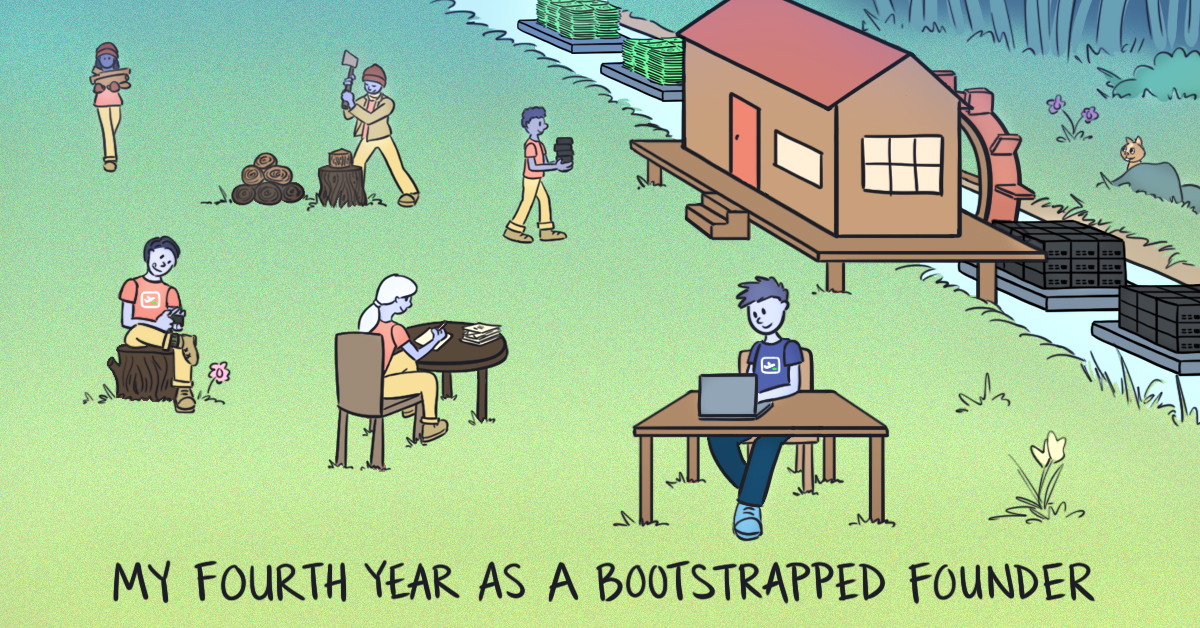
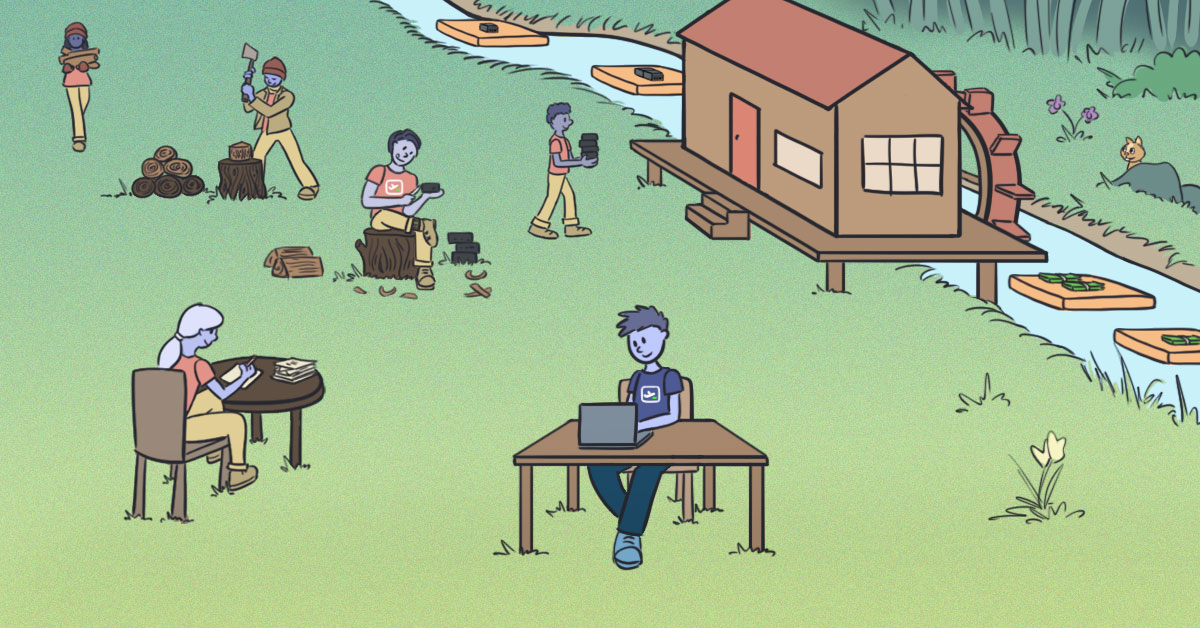
Update cover images

diff --git a/content/posts/solo-developer-year-4/index.md b/content/posts/solo-developer-year-4/index.md
@@ -9,6 +9,8 @@ tags:
 description: "TODO: Write blurb"
 date: '2022-02-01'
 hero_image: cover.jpg
+images:
+- solo-developer-year-4/og-cover.jpg
 ---
 Four years ago, I [quit my job as a developer at Google](/why-i-quit-google/) to create my own self-funded software business.
 
@@ -347,7 +349,7 @@ As TinyPilot grows, the highs are high but the lows are lower.
 
 I'll start with the positives. I enjoy feeling like I run a real business. Before TinyPilot, my businesses typically earned less than $500 per month. At that scale, you're extremely limited. You can't hire for any skilled roles or pay for expert guidance. You end up grinding away at problems you know are already solved, but you have to reinvent the wheel because you can't afford the already-invented ones.
 
-With TinyPilot, I can pay for tooling or hire specialists where it makes sense. TinyPilot uses elegant cases for the Voyager, and it's because I hired an awesome 3D printing designer. If I didn't have money for that, I definitely wouldn't have spent hundreds of hours learning to make CAD designs and operating a 3D printer.
+With TinyPilot, there's enough money coming in to hire specialists where it makes sense. I enjoy being able to work with a talented dev team again after three years of coding by myself. I pay $200/month for dev tooling and CI without thinking twice about it because it's obviously a net cost savings to help my dev team eliminate gruntwork.
 
 The downside of running your own business with thousands of customers is that you're responsible for failure. When I ship a bad bug, I feel it. When I announce a launch date for new hardware and have to delay it over and over, I find it personally embarrassing in a way that I never felt at Google when I was eight layers removed from real customers.
 
